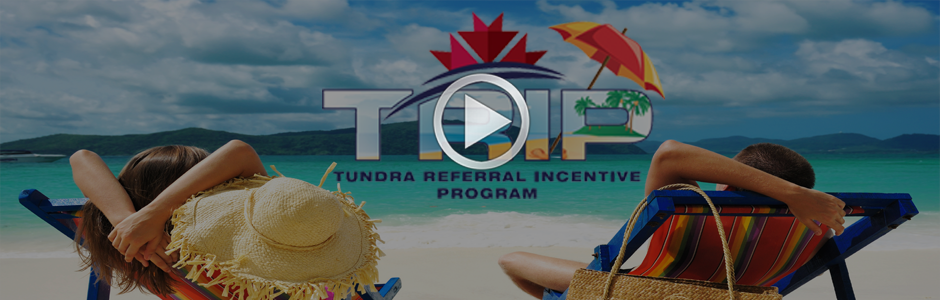
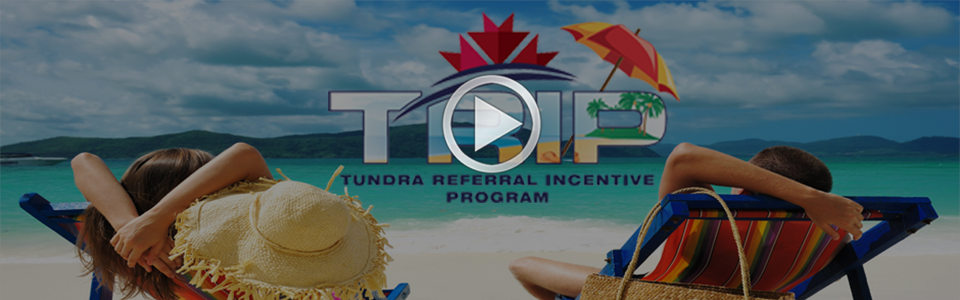
Added in the youtube video

diff --git a/sites/all/themes/tundra/js/homer.js b/sites/all/themes/tundra/js/homer.js
@@ -1,0 +1,6 @@
+jQuery(function ($) {
+  $('div#views_slideshow_cycle_main_front_page_slideshow-block div.views-row-0 div.slideshow-link a').click(function(){
+  	$.colorbox({html:"<iframe width=\"560\" height=\"315\" src=\"//www.youtube.com/embed/vwKYgjdT7fY\" frameborder=\"0\" allowfullscreen></iframe>"});
+  	return false;
+  });
+});

diff --git a/sites/all/themes/tundra/css/style.css b/sites/all/themes/tundra/css/style.css
@@ -1383,7 +1383,7 @@ body.section-about-us #content p
     {
     	clear: both;
     	color: #BA131A;
-    	font-size: 18px !important;
+    	font-size: 20px !important;
     	font-weight: bold;
     	margin-bottom: 20px;
     	text-transform: uppercase;

diff --git a/sites/all/themes/tundra/template.php b/sites/all/themes/tundra/template.php
@@ -146,9 +146,13 @@ function tundra_preprocess_html(&$variables, $hook) {
  * @param $hook
  *   The name of the template being rendered ("page" in this case.)
  */
-/* -- Delete this line if you want to use this function
+
 function tundra_preprocess_page(&$variables, $hook) {
-  $variables['sample_variable'] = t('Lorem ipsum.');
+  if ($variables['is_front']) 
+  {
+    drupal_add_js('sites/all/themes/tundra/js/homer.js');
+    $vars['scripts'] = drupal_get_js();
+  }
 }
 
 
